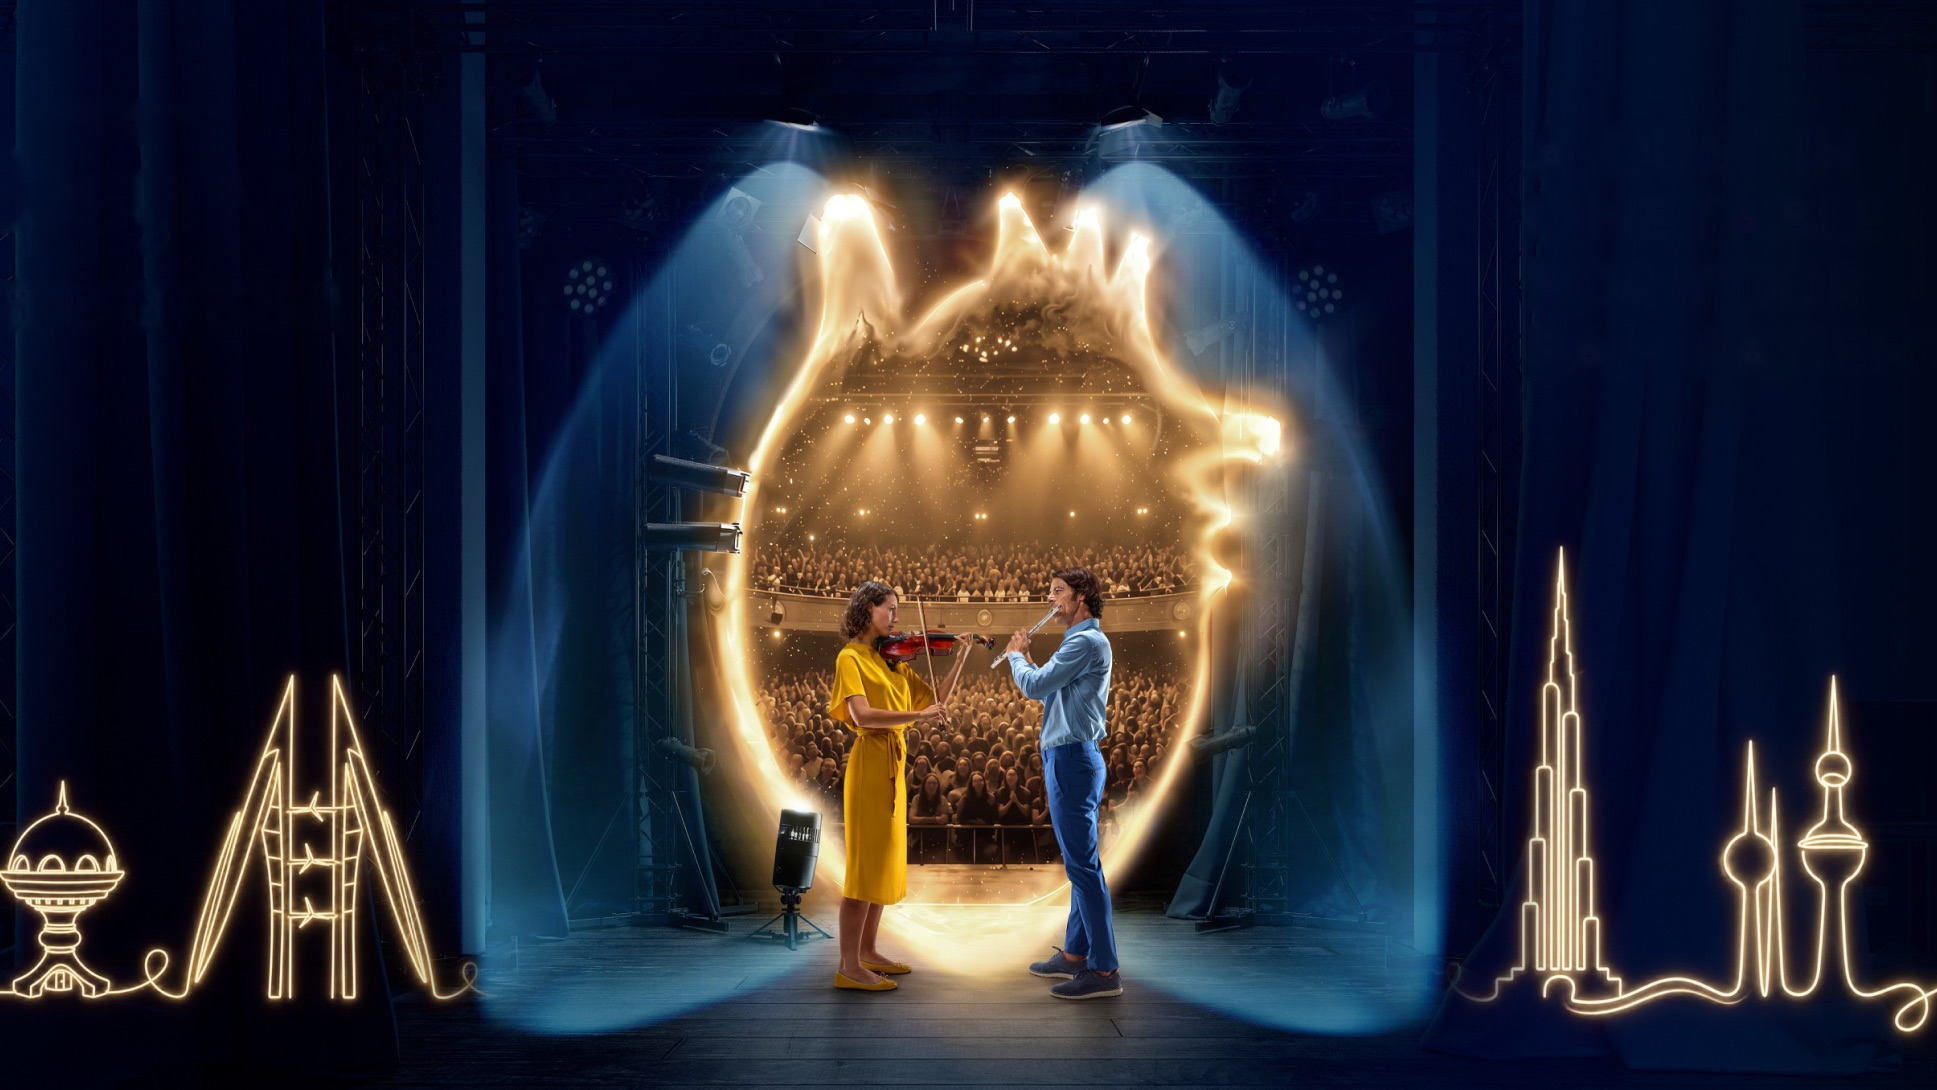
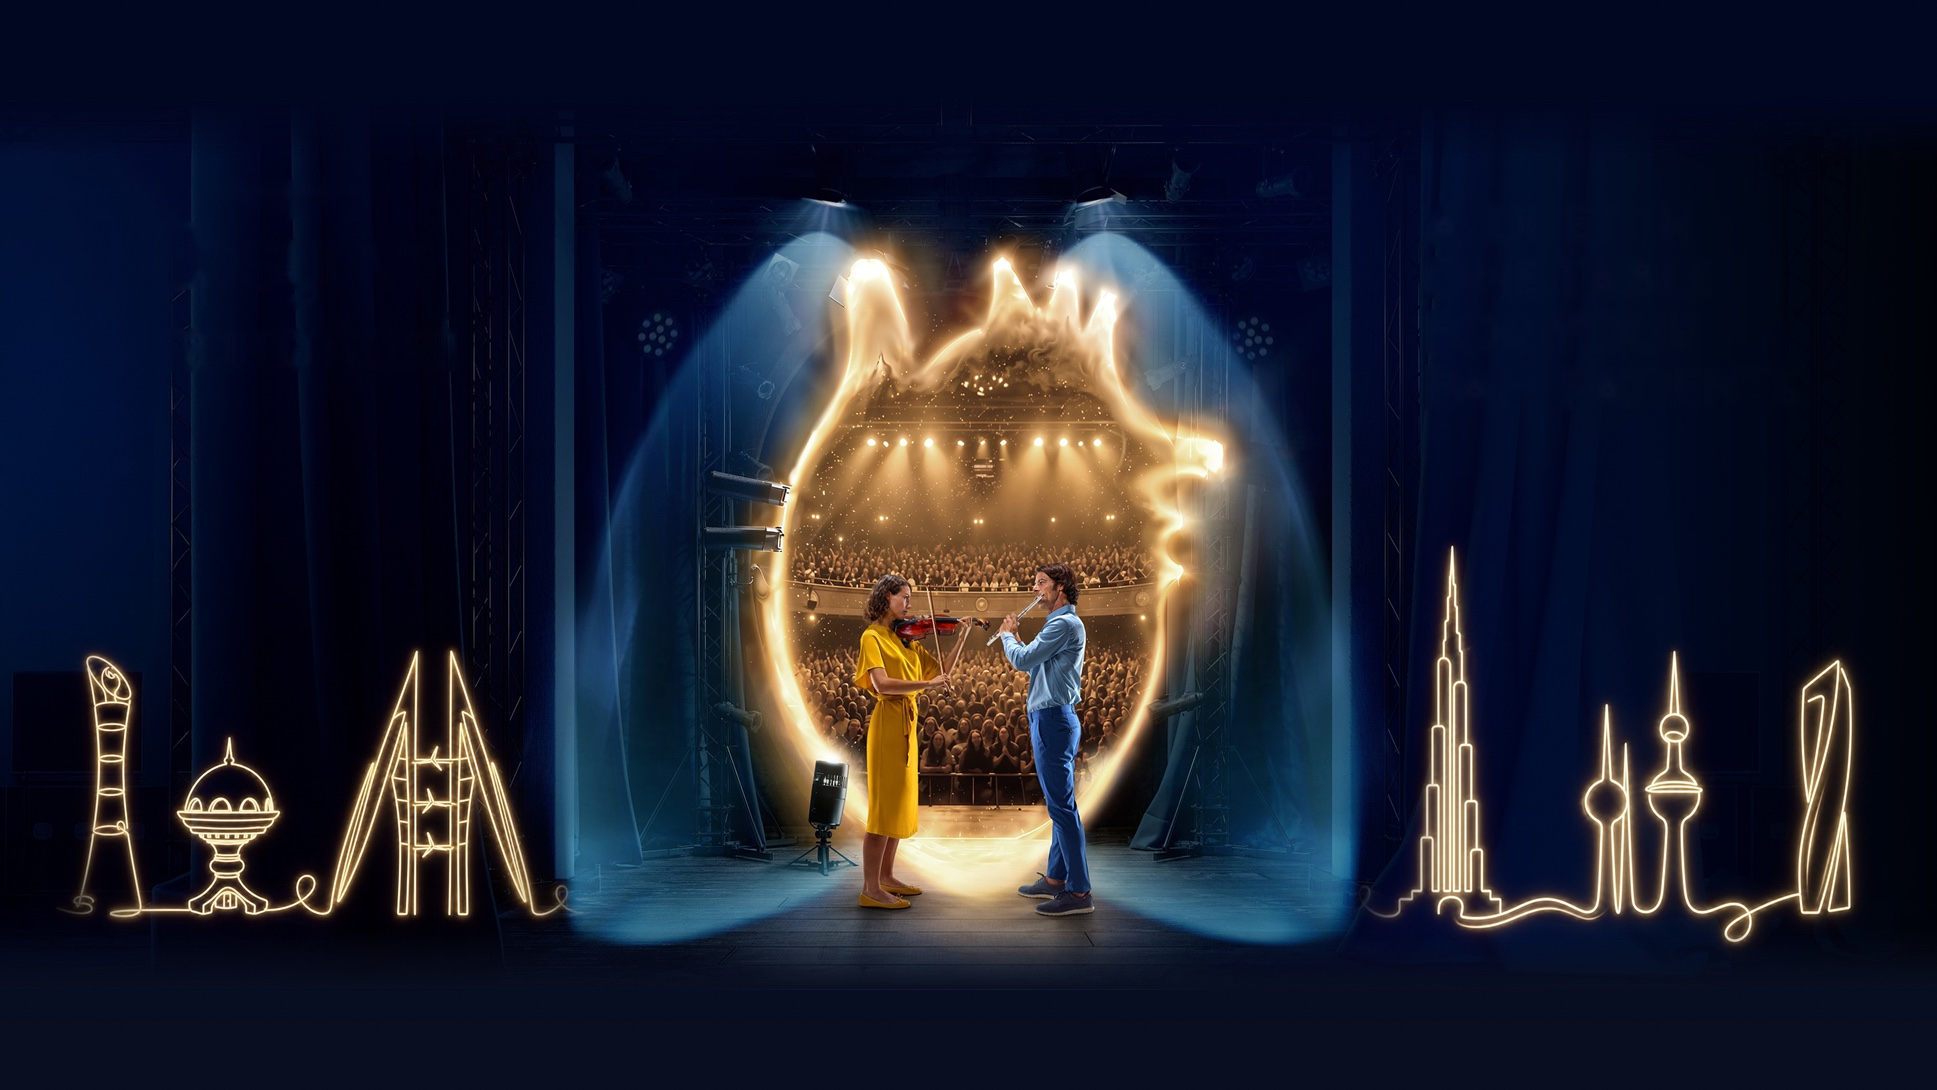
feat: add references modal and integrate references into question explanations

diff --git a/resources/js/lib/references.ts b/resources/js/lib/references.ts
@@ -1,0 +1,100 @@
+/**
+ * Footnotes and references for each question, copied verbatim from the Figma
+ * file ("UAE_J&J OPSYNVI® Internal Launch", frame "Desktop - 7 · References").
+ */
+export type QuestionReference = {
+    question: number;
+    /** Superscript shown after the answer explanation in the question pop-up. */
+    marker: string;
+    /** Footnote copy shown above the references, if any. */
+    note?: string;
+    /** One entry per numbered reference. */
+    references: string[];
+    /** Render the references on one line instead of one per line. */
+    inline?: boolean;
+};
+
+const SMPC = 'Opsynvi UAE SmPC April 2025.';
+const GRUNIG = 'Grunig E et al. J Am Coll Cardiol 2024; 83(4):473–484.';
+const HUMBERT = 'Humbert M et al. Eur Heart J 2022; 43(38):3618–3731.';
+const ESC_ERS_NOTE =
+    '*Class I level B recommendation by the 2022 ESC/ERS guidelines. In patients with idiopathic, heritable or drug-associated pulmonary arterial hypertension. ERA + PDE-5i for low- or intermediate-risk patients, and ERA + PDE-5i + parenteral prostacyclin analogues for high-risk patients.¹';
+
+export const questionReferences: QuestionReference[] = [
+    { question: 1, marker: '1', references: [SMPC] },
+    {
+        question: 2,
+        marker: '1–5',
+        references: [
+            SMPC,
+            GRUNIG,
+            'Paoli CJ et al. J Health Econ Outcomes Res 2024; 11(1):8–22.',
+            'Davis S et al. Presented at the International Society for Pharmacoeconomics and Outcomes Research (ISPOR) Europe, 12–15 November 2023; Copenhagen, Denmark (Poster no. PCR57).',
+            HUMBERT,
+        ],
+    },
+    { question: 3, marker: '1', references: [SMPC] },
+    {
+        question: 4,
+        marker: '*,†,‡,§,1',
+        note: '*Data from the COMPERA Registry, a large European pulmonary hypertension registry used to assess temporal trends in the use of combination therapy and survival of patients with newly diagnosed PAH between 2010 and 2019 (N=2531).²˒⁴ †In 2019.² ‡Between 2015 and 2019.⁴ §For patients with idiopathic/heritable/drug-associated PAH, no comorbidities and diffusing capacity for carbon monoxide >45%.⁴',
+        references: ['Hoeper MM et al. Eur Respir J 2022; 59(6):2102024.'],
+    },
+    {
+        question: 5,
+        marker: '*,†,1',
+        note: '*Between 2015 and 2019.¹ †For patients with idiopathic/heritable/drug-associated PAH, no comorbidities and diffusing capacity for carbon monoxide >45%.¹',
+        references: [
+            'Hoeper MM et al. Eur Respir J 2022; 59(6):2102024 (supplementary appendix).',
+        ],
+    },
+    {
+        question: 6,
+        marker: '*,1',
+        note: '*Systematic review of 14 studies including MEDLINE, EMBASE, and the Cochrane Library databases from their inception to 4 March 2022, for observational studies reporting on adherence to and persistence with PAH-targeted therapies. 10 of these studies reported on adherence rates, involving a total of 11,303 patients.¹',
+        references: ['Qadus S et al. Am J Cardiovasc Drugs 2023; 23(1):19–33.'],
+    },
+    {
+        question: 7,
+        marker: '*,1',
+        note: '*Adherence defined by proportion of days covered at 180 days. The mean number of hospitalisations per patient is presented.²',
+        references: [
+            'Frantz RP et al. Pulm Circ 2020; 10(1):1–11.',
+            'Paoli CJ et al. J Health Econ Outcomes Res 2024; 11(1):8–22.',
+        ],
+        inline: true,
+    },
+    { question: 8, marker: '*,1', note: ESC_ERS_NOTE, references: [HUMBERT] },
+    { question: 9, marker: '1', references: [HUMBERT] },
+    { question: 10, marker: '*,1', note: ESC_ERS_NOTE, references: [HUMBERT] },
+    { question: 11, marker: '1', references: [HUMBERT] },
+    {
+        question: 12,
+        marker: '*,1',
+        note: '*Primary endpoint: change in PVR expressed as the ratio of geometric means of end of double-blind treatment (Week 16) to baseline.¹',
+        references: [GRUNIG],
+    },
+    {
+        question: 13,
+        marker: '*,1',
+        note: '*Secondary endpoint: change in 6MWD from baseline to Week 16.¹',
+        references: [GRUNIG],
+    },
+    { question: 14, marker: '1', references: [GRUNIG] },
+    {
+        question: 15,
+        marker: '1–3',
+        references: [
+            SMPC,
+            GRUNIG,
+            'ADCIRCA SmPC, September 2023. Available at: https://www.ema.europa.eu/en/documents/product-information/adcirca-epar-product-information_en.pdf (last accessed March 2024).',
+        ],
+    },
+];
+
+export function referenceMarker(questionNumber: number): string | null {
+    return (
+        questionReferences.find((entry) => entry.question === questionNumber)
+            ?.marker ?? null
+    );
+}

diff --git a/resources/js/pages/Game.vue b/resources/js/pages/Game.vue
@@ -6,6 +6,7 @@ import GameStage from '@/components/game/GameStage.vue';
 import GlassButton from '@/components/game/GlassButton.vue';
 import PrimaryButton from '@/components/game/PrimaryButton.vue';
 import QuestionModal from '@/components/game/QuestionModal.vue';
+import ReferencesModal from '@/components/game/ReferencesModal.vue';
 import RestartModal from '@/components/game/RestartModal.vue';
 import ResultsModal from '@/components/game/ResultsModal.vue';
 import ScoreSheetModal from '@/components/game/ScoreSheetModal.vue';
@@ -36,7 +37,7 @@ const {
 } = useGame(props.game);
 
 type TurnModalName = 'turn' | 'question' | 'challenge';
-type InfoModalName = 'scores' | 'results' | 'restart';
+type InfoModalName = 'references' | 'scores' | 'results' | 'restart';
 
 const turnModal = ref<TurnModalName | null>(null);
 const infoModal = ref<InfoModalName | null>(null);
@@ -333,7 +334,7 @@ onBeforeUnmount(() => {
                     class="absolute top-[30.68px] left-[1498.68px] h-[241px] w-[424px]"
                 />
                 <div
-                    class="absolute top-[780px] left-1/2 flex w-[323px] -translate-x-1/2 flex-col items-center gap-4 rounded-[48px] bg-[rgba(10,31,68,0.95)] px-6 pt-5 pb-6"
+                    class="absolute top-[820px] left-1/2 flex w-[323px] -translate-x-1/2 flex-col items-center gap-4 rounded-[48px] bg-[rgba(10,31,68,0.95)] px-6 pt-5 pb-6"
                 >
                     <p class="text-[36px] font-bold text-gold">
                         Spin the wheel
@@ -356,11 +357,10 @@ onBeforeUnmount(() => {
 
                 <div class="absolute top-[52px] right-[259.44px] flex gap-3">
                     <GlassButton
-                        tone="dark"
-                        :disabled="isLocked"
-                        @click="infoModal = 'restart'"
+                        :disabled="spinningWheel !== null"
+                        @click="infoModal = 'references'"
                     >
-                        Restart
+                        References
                     </GlassButton>
                     <GlassButton
                         tone="dark"
@@ -480,14 +480,19 @@ onBeforeUnmount(() => {
                     />
                 </template>
 
+                <ReferencesModal
+                    v-if="infoModal === 'references'"
+                    @close="infoModal = null"
+                />
                 <ScoreSheetModal
-                    v-if="infoModal === 'scores'"
+                    v-else-if="infoModal === 'scores'"
                     :game="game"
                     @close="infoModal = null"
                 />
                 <ResultsModal
                     v-else-if="infoModal === 'results'"
                     :game="game"
+                    :can-restart="!isLocked"
                     @close="infoModal = null"
                     @restart="infoModal = 'restart'"
                 />

diff --git a/resources/js/components/game/ReferencesModal.vue b/resources/js/components/game/ReferencesModal.vue
@@ -1,0 +1,57 @@
+<script setup lang="ts">
+import GameModal from '@/components/game/GameModal.vue';
+import GlassButton from '@/components/game/GlassButton.vue';
+import { questionReferences } from '@/lib/references';
+
+const emit = defineEmits<{ close: [] }>();
+
+const COLUMNS = 3;
+const perColumn = Math.ceil(questionReferences.length / COLUMNS);
+const columns = Array.from({ length: COLUMNS }, (_, index) =>
+    questionReferences.slice(index * perColumn, (index + 1) * perColumn),
+);
+</script>
+
+<template>
+    <GameModal
+        class="w-[1760px] gap-6 rounded-[48px] bg-navy px-12 py-8"
+        @close="emit('close')"
+    >
+        <p class="text-[36px] font-bold">References</p>
+        <div class="flex w-full items-start gap-10">
+            <div
+                v-for="(column, index) in columns"
+                :key="index"
+                class="flex min-w-0 flex-1 flex-col gap-4"
+            >
+                <div
+                    v-for="entry in column"
+                    :key="entry.question"
+                    class="flex w-full flex-col gap-1 text-[14px] leading-[1.35] break-words text-white/88"
+                >
+                    <p class="text-[16px] leading-normal font-bold text-gold">
+                        Question {{ entry.question }}
+                    </p>
+                    <p v-if="entry.note">{{ entry.note }}</p>
+                    <p>
+                        <span class="font-semibold">
+                            {{
+                                entry.references.length > 1
+                                    ? 'References:'
+                                    : 'Reference:'
+                            }}
+                        </span>
+                        <template
+                            v-for="(reference, position) in entry.references"
+                            :key="position"
+                        >
+                            <br v-if="position > 0 && !entry.inline" />
+                            {{ ` ${position + 1}. ${reference}` }}
+                        </template>
+                    </p>
+                </div>
+            </div>
+        </div>
+        <GlassButton @click="emit('close')">Done</GlassButton>
+    </GameModal>
+</template>

diff --git a/resources/js/components/game/QuestionModal.vue b/resources/js/components/game/QuestionModal.vue
@@ -3,6 +3,7 @@ import { computed } from 'vue';
 import GameModal from '@/components/game/GameModal.vue';
 import GlassButton from '@/components/game/GlassButton.vue';
 import PrimaryButton from '@/components/game/PrimaryButton.vue';
+import { referenceMarker } from '@/lib/references';
 import { cn } from '@/lib/utils';
 import type { GameTurn, QuestionOption } from '@/types';
 
@@ -21,6 +22,7 @@ const emit = defineEmits<{
 }>();
 
 const isAnswered = computed(() => props.turn.status !== 'question_opened');
+const marker = computed(() => referenceMarker(props.turn.question.number));
 
 function optionState(
     option: QuestionOption,
@@ -109,7 +111,12 @@ function optionState(
                         "
                         class="text-[19px] leading-[1.35] text-white/85"
                     >
-                        {{ turn.explanation }}
+                        {{ turn.explanation
+                        }}<sup
+                            v-if="marker"
+                            class="ml-px text-[13px] font-semibold"
+                            >{{ marker }}</sup
+                        >
                     </span>
                 </span>
                 <img

diff --git a/resources/js/components/game/ResultsModal.vue b/resources/js/components/game/ResultsModal.vue
@@ -6,7 +6,10 @@ import PrimaryButton from '@/components/game/PrimaryButton.vue';
 import { cn } from '@/lib/utils';
 import type { GameState } from '@/types';
 
-const props = defineProps<{ game: GameState }>();
+const props = withDefaults(
+    defineProps<{ game: GameState; canRestart?: boolean }>(),
+    { canRestart: true },
+);
 
 const emit = defineEmits<{ close: []; restart: [] }>();
 
@@ -93,7 +96,7 @@ const subtitle = computed(() => {
         </div>
         <div class="flex items-center gap-4">
             <GlassButton @click="emit('close')">Done</GlassButton>
-            <PrimaryButton v-if="game.is_completed" @click="emit('restart')">
+            <PrimaryButton :disabled="!canRestart" @click="emit('restart')">
                 Restart
             </PrimaryButton>
         </div>

diff --git a/database/seeders/QuestionSeeder.php b/database/seeders/QuestionSeeder.php
@@ -110,15 +110,15 @@ class QuestionSeeder extends Seeder
                 'explanation' => 'Approximately 40% of patients do not adhere to their PAH-targeted medications in the real world (overall pooled adherence was 60.9%).',
             ],
             7 => [
-                'prompt' => 'In the retrospective database analysis of PAH adherence at 180 days, what was the mean number of hospitalisations per patient for those with ≥ 80% adherence compared to those with < 20% adherence?',
+                'prompt' => 'In the retrospective database analysis of PAH adherence at 180 days, what was the mean number of hospitalizations per patient for those with ≥ 80% adherence compared to those with < 20% adherence?',
                 'options' => [
-                    'A' => '0.1 vs. 0.8 hospitalisations',
-                    'B' => '0.4 vs. 1.3 hospitalisations',
-                    'C' => '0.8 vs. 2.1 hospitalisations',
-                    'D' => '1.0 vs. 3.0 hospitalisations',
+                    'A' => '0.1 vs. 0.8 hospitalizations',
+                    'B' => '0.4 vs. 1.3 hospitalizations',
+                    'C' => '0.8 vs. 2.1 hospitalizations',
+                    'D' => '1.0 vs. 3.0 hospitalizations',
                 ],
                 'correct' => 'B',
-                'explanation' => 'Patients with ≥ 80% adherence had a mean of 0.4 hospitalisations compared to 1.3 hospitalisations for patients with < 20% adherence at 180 days.',
+                'explanation' => 'Patients with ≥ 80% adherence had a mean of 0.4 hospitalizations compared to 1.3 hospitalizations for patients with < 20% adherence at 180 days.',
             ],
             8 => [
                 'prompt' => 'What class and level of recommendation does initial macitentan + tadalafil combination therapy hold in the 2022 ESC/ERS guidelines for idiopathic, heritable, or drug-associated PAH patients without cardiopulmonary comorbidities at low or intermediate risk?',
@@ -137,10 +137,10 @@ class QuestionSeeder extends Seeder
                     'A' => 'Relieves symptoms and increases exercise capacity',
                     'B' => 'Improves long-term outcomes (reduced morbidity and mortality)',
                     'C' => 'Reverses genetic mutations in heritable PAH',
-                    'D' => 'Improves cardiac biomarkers and reduces hospitalisations',
+                    'D' => 'Improves cardiac biomarkers and reduces hospitalizations',
                 ],
                 'correct' => 'C',
-                'explanation' => 'The 5 listed benefits are: relieves symptoms, improves long-term outcomes (reduced morbidity and mortality), improves cardiac biomarkers, increases exercise capacity, and reduces hospitalisations.',
+                'explanation' => 'The 5 listed benefits are: relieves symptoms, improves long-term outcomes (reduced morbidity and mortality), improves cardiac biomarkers, increases exercise capacity, and reduces hospitalizations.',
             ],
             10 => [
                 'prompt' => 'For PAH patients currently receiving monotherapy, why do the 2022 ESC/ERS guidelines strongly recommend adding macitentan to PDE-5is or prostacyclin analogues?',
